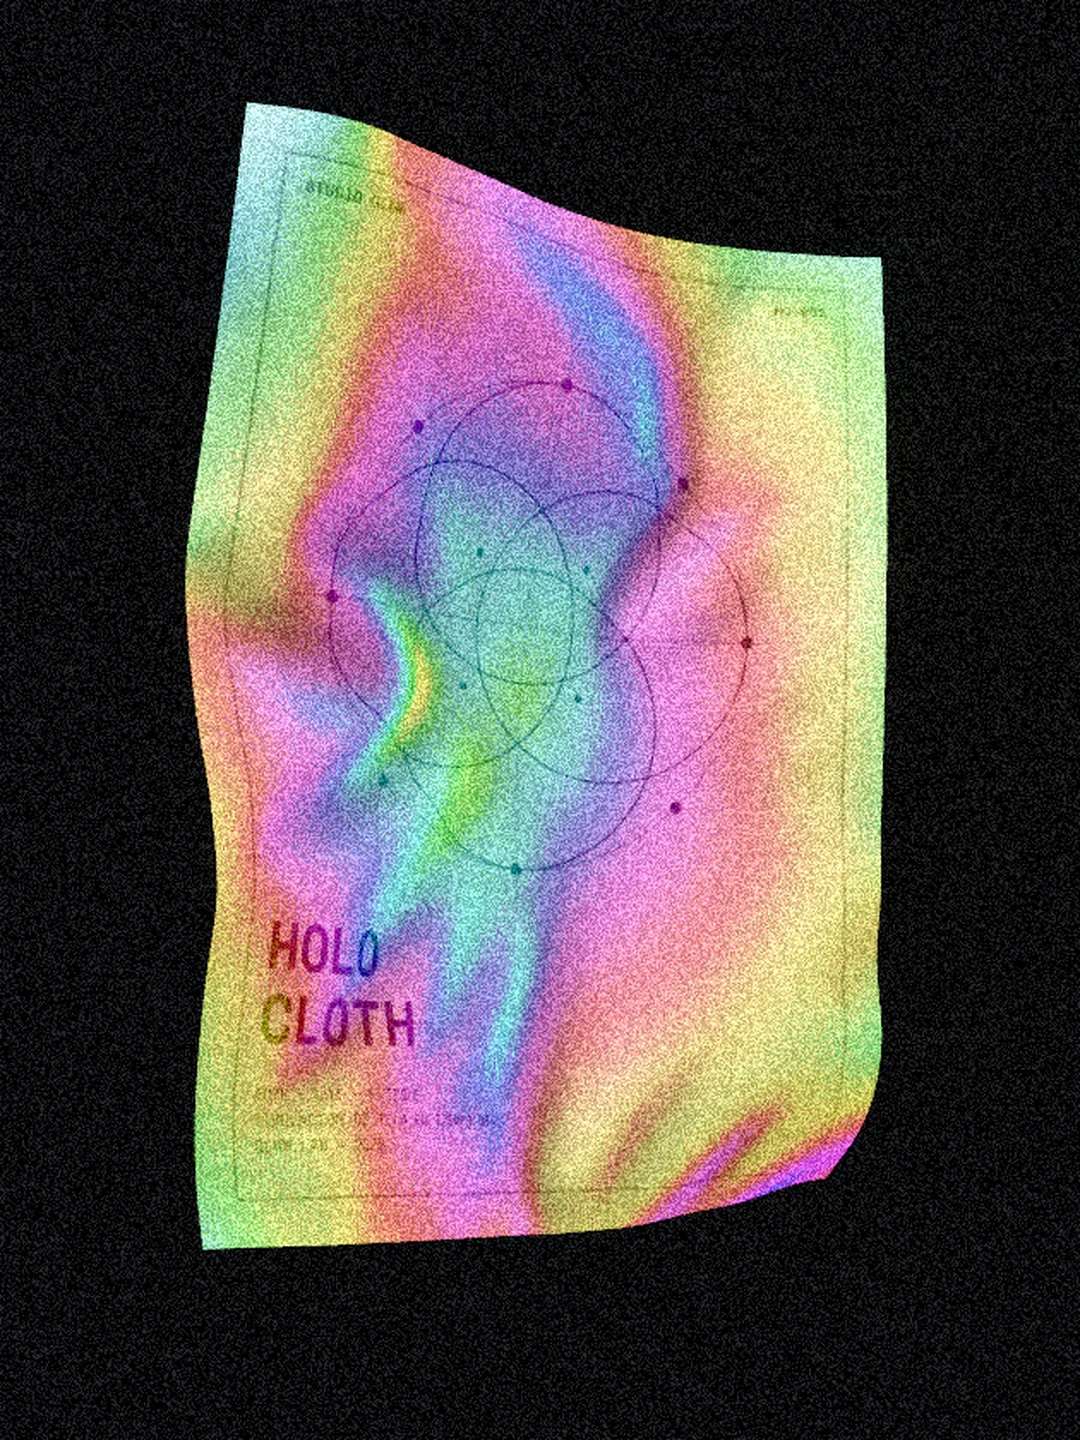
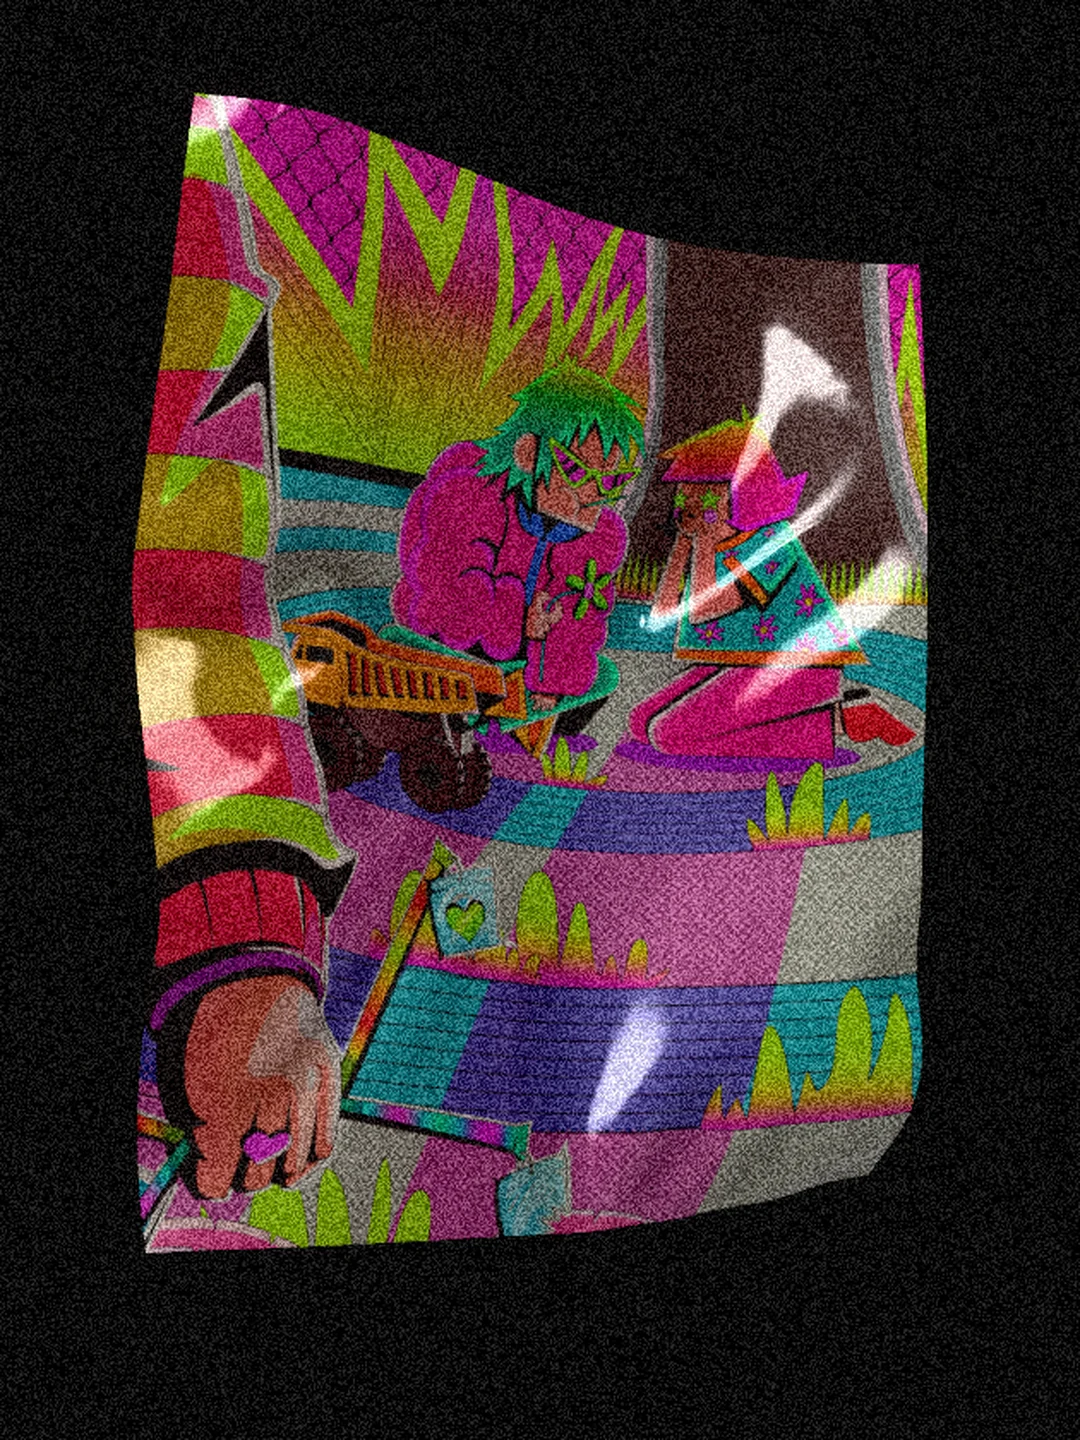
Holocloth: ilustración por defecto en cromo con fondo negro y nuevo thumbnail
Claude-Session: https://claude.ai/code/session_01UxV4mJHqS6TXwuez63MziG

diff --git a/public/tools/holocloth.html b/public/tools/holocloth.html
@@ -595,7 +595,7 @@ html.glam-alt, html.glam-alt body, html.glam-alt #frame, html.glam-alt .tss{back
   </style>
   <style>
     /* ═════════ HOLOCLOTH ═════════ */
-    #holoStage { position: relative; overflow: hidden; background: #0b0c12; touch-action: none; }
+    #holoStage { position: relative; overflow: hidden; background: #000; touch-action: none; }
     #holoStage canvas { position: absolute; inset: 0; width: 100% !important; height: 100% !important; display: block; }
     /* manito pixel art (igual que Yummy): dedo apuntando; al agarrar, pinch */
     #holoStage canvas, #holoStage.grab canvas { cursor: url(/tools/cursor-point.png) 9 1, pointer; }
@@ -604,7 +604,7 @@ html.glam-alt, html.glam-alt body, html.glam-alt #frame, html.glam-alt .tss{back
     #holoStage.pick canvas { cursor: crosshair; }
     .holo-loading {
       position: absolute; inset: 0; z-index: 5; display: flex; align-items: center; justify-content: center;
-      background: #0b0c12; color: rgba(255,255,255,.6); font-size: 10px; letter-spacing: .14em; text-transform: uppercase;
+      background: #000; color: rgba(255,255,255,.6); font-size: 10px; letter-spacing: .14em; text-transform: uppercase;
       transition: opacity .5s ease; pointer-events: none;
     }
     #sidebar { width: 236px; }
@@ -906,15 +906,15 @@ const FINISH={
   Satin: {roughness:.3, clearcoat:.45, coatRoughness:.3},
   Matte: {roughness:.62, clearcoat:.06, coatRoughness:.7},
 };
-const RENDER0={background:'#0b0c12',exposure:.5,environment:.73,bloom:.05,bloomThreshold:1.41,noise:.345,toneMapping:'Neutral',occlusion:true,occlusionStrength:1,dof:false,dofAperture:40,dofBlur:.04};
+const RENDER0={background:'#000000',exposure:.5,environment:.73,bloom:.05,bloomThreshold:1.41,noise:.345,toneMapping:'Neutral',occlusion:true,occlusionStrength:1,dof:false,dofAperture:40,dofBlur:.04};
 const PRESETS={
   Holo:{finish:'Matte',baseColor:'#20242d',holoIntensity:3.78,holoScale:400,bandFreq:1.1,saturation:1,hueShift:.37,sparkle:.73,specTint:.33,iridescence:.81,metalness:1,sheen:0,bump:3,bumpTiling:3,...FINISH.Matte},
   Chrome:{finish:'Glossy',baseColor:'#dfe3e8',holoIntensity:0,holoScale:400,bandFreq:1.1,saturation:1,hueShift:.37,sparkle:.2,specTint:0,iridescence:0,metalness:1,sheen:0,bump:.05,bumpTiling:3,...FINISH.Glossy,roughness:.04,coatRoughness:.04},
   'Black Cloth':{finish:'Satin',baseColor:'#101114',holoIntensity:.1,holoScale:8,bandFreq:.2,saturation:0,hueShift:0,sparkle:0,specTint:.82,iridescence:0,metalness:.43,sheen:.08,bump:0,bumpTiling:3,...FINISH.Satin,roughness:.83,clearcoat:.22,coatRoughness:.32},
 };
 const S={
-  performance:'High', preset:'Holo',
-  mat:{...PRESETS.Holo},
+  performance:'High', preset:'Chrome',
+  mat:{...PRESETS.Chrome},
   phys:{viscosity:.6, stiffness:1, iterations:14, smoothing:.045, grabRadius:.27, crumple:14},
   img:{useImage:true, edit:false, scale:.35, rotation:0, opacity:1, cornerRadius:0},
   render:{...RENDER0},
@@ -1566,7 +1566,11 @@ GlamRec.montar({contenedor:$('recSlot'),clase:'cam-btn',nombre:'holocloth',manua
 buildCloth(1); resize(); apply();
 setBump(scratchesCanvas());
 renderer.setAnimationLoop(frame);
-defaultPoster().then(img=>{ setClothImage(img); apply(); $('holoLoading').style.opacity=0; }).catch(()=>{ $('holoLoading').style.opacity=0; });
+// Imagen por defecto: la ilustración de GLAM; si no carga, el póster generado.
+const cargarImg=src=>new Promise((ok,ko)=>{ const im=new Image(); im.onload=()=>ok(im); im.onerror=ko; im.src=src; });
+cargarImg('/tools/holocloth-media/default.webp').catch(()=>defaultPoster())
+  .then(img=>{ setClothImage(img); apply(); $('holoLoading').style.opacity=0; })
+  .catch(()=>{ $('holoLoading').style.opacity=0; });
 window.__holo={S,sim:()=>sim,apply,exportPNG};
   </script>
 
